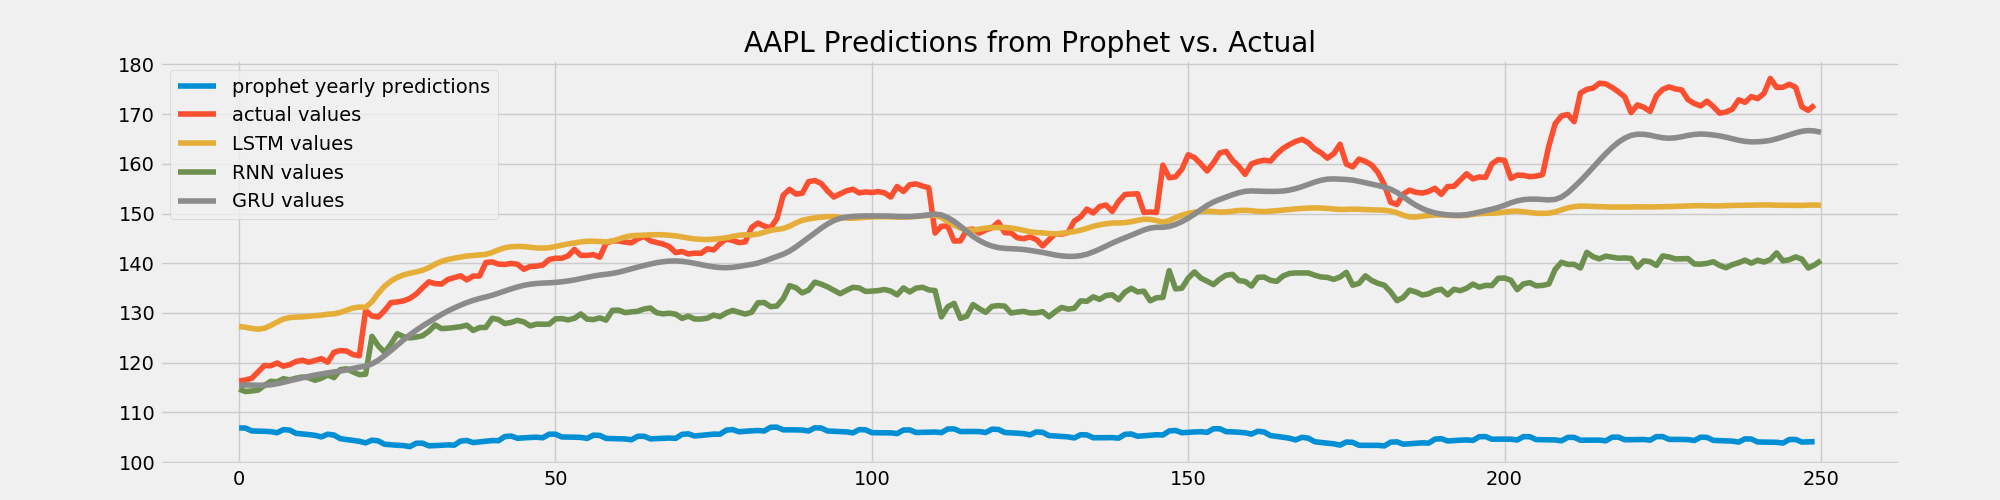
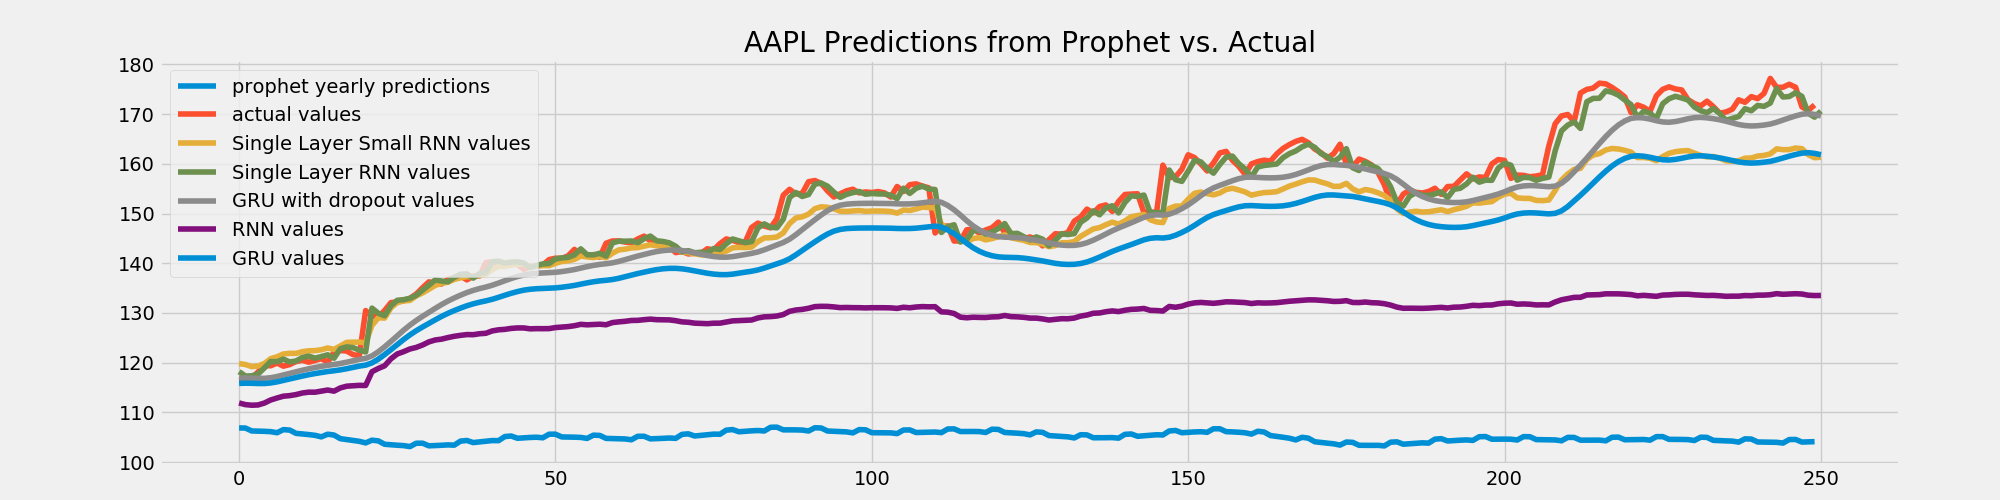
add readme updated figure and updated python script

diff --git a/time-series.py b/time-series.py
@@ -76,8 +76,9 @@ def create_dl_train_test_split(all_data):
     X_train = []
     y_train = []
     for i in range(60,2768):
-     X_train.append(training_set_scaled[i-60:i,0])
-     y_train.append(training_set_scaled[i,0])
+        X_train.append(training_set_scaled[i-60:i,0])
+        y_train.append(training_set_scaled[i,0])
+
     X_train, y_train = np.array(X_train), np.array(y_train)
 
     # Reshaping X_train for efficient modelling
@@ -91,16 +92,60 @@ def create_dl_train_test_split(all_data):
     # Preparing X_test
     X_test = []
     for i in range(60,311):
-     X_test.append(inputs[i-60:i,0])
+        X_test.append(inputs[i-60:i,0])
+
     X_test = np.array(X_test)
     X_test = np.reshape(X_test, (X_test.shape[0],X_test.shape[1],1))
 
     return X_train, y_train, X_test, sc
 
+def create_single_layer_small_rnn_model(X_train, y_train, X_test, sc):
+    '''
+    create single layer rnn model trained on X_train and y_train
+    and make predictions on the X_test data
+    '''
+    # create a model
+    model = Sequential()
+    model.add(SimpleRNN(6))
+    model.add(Dense(1))
+
+    model.compile(optimizer='rmsprop', loss='mean_squared_error')
+
+    # fit the RNN model
+    model.fit(X_train, y_train, epochs=100, batch_size=150)
+
+    # Finalizing predictions
+    scaled_preds = model.predict(X_test)
+    test_preds = sc.inverse_transform(scaled_preds)
+
+    return model, test_preds
+
+def create_single_layer_rnn_model(X_train, y_train, X_test, sc):
+    '''
+    create single layer rnn model trained on X_train and y_train
+    and make predictions on the X_test data
+    '''
+    # create a model
+    model = Sequential()
+    model.add(SimpleRNN(32))
+    model.add(Dense(1))
+
+    model.compile(optimizer='rmsprop', loss='mean_squared_error')
+
+    # fit the RNN model
+    model.fit(X_train, y_train, epochs=100, batch_size=150)
+
+    # Finalizing predictions
+    scaled_preds = model.predict(X_test)
+    test_preds = sc.inverse_transform(scaled_preds)
+
+    return model, test_preds
+
 
 def create_rnn_model(X_train, y_train, X_test, sc):
     '''
-
+    create rnn model trained on X_train and y_train
+    and make predictions on the X_test data
     '''
     # create a model
     model = Sequential()
@@ -121,41 +166,36 @@ def create_rnn_model(X_train, y_train, X_test, sc):
 
     return model, test_preds
 
-def create_LSTM_model(X_train, y_train, X_test, sc):
-    '''
-
-    '''
-    # The LSTM architecture
-    regressor = Sequential()
-    # First LSTM layer with Dropout regularisation
-    regressor.add(LSTM(units=50, return_sequences=True, input_shape=(X_train.shape[1],1)))
-    regressor.add(Dropout(0.2))
-    # Second LSTM layer
-    regressor.add(LSTM(units=50, return_sequences=True))
-    regressor.add(Dropout(0.2))
-    # Third LSTM layer
-    regressor.add(LSTM(units=50, return_sequences=True))
-    regressor.add(Dropout(0.2))
-    # Fourth LSTM layer
-    regressor.add(LSTM(units=50))
-    regressor.add(Dropout(0.2))
-    # The output layer
-    regressor.add(Dense(units=1))
-
-    # Compiling the RNN
-    regressor.compile(optimizer='rmsprop',loss='mean_squared_error')
-    # Fitting to the training set
-    regressor.fit(X_train,y_train,epochs=50,batch_size=32)
-
-    predicted_stock_price = regressor.predict(X_test)
-    predicted_stock_price = sc.inverse_transform(predicted_stock_price)
-
-    return regressor, predicted_stock_price
-
-
 def create_GRU_model(X_train, y_train, X_test, sc):
     '''
+    create GRU model trained on X_train and y_train
+    and make predictions on the X_test data
+    '''
+    # The GRU architecture
+    regressorGRU = Sequential()
+    # First GRU layer with Dropout regularisation
+    regressorGRU.add(GRU(units=50, return_sequences=True, input_shape=(X_train.shape[1],1), activation='tanh'))
+    regressorGRU.add(GRU(units=50, return_sequences=True, activation='tanh'))
+    regressorGRU.add(GRU(units=50, return_sequences=True, activation='tanh'))
+    regressorGRU.add(GRU(units=50, activation='tanh'))
+    regressorGRU.add(Dense(units=1))
 
+    # Compiling the RNN
+    regressorGRU.compile(optimizer=SGD(lr=0.01, decay=1e-7, momentum=0.9, nesterov=False),loss='mean_squared_error')
+    # Fitting to the training set
+    regressorGRU.fit(X_train,y_train,epochs=50,batch_size=150)
+
+    GRU_predicted_stock_price = regressorGRU.predict(X_test)
+    GRU_predicted_stock_price = sc.inverse_transform(GRU_predicted_stock_price)
+
+    return regressorGRU, GRU_predicted_stock_price
+
+
+
+def create_GRU_with_drop_out_model(X_train, y_train, X_test, sc):
+    '''
+    create GRU model trained on X_train and y_train
+    and make predictions on the X_test data
     '''
     # The GRU architecture
     regressorGRU = Sequential()
@@ -163,10 +203,10 @@ def create_GRU_model(X_train, y_train, X_test, sc):
     regressorGRU.add(GRU(units=50, return_sequences=True, input_shape=(X_train.shape[1],1), activation='tanh'))
     regressorGRU.add(Dropout(0.2))
     # Second GRU layer
-    regressorGRU.add(GRU(units=50, return_sequences=True, input_shape=(X_train.shape[1],1), activation='tanh'))
+    regressorGRU.add(GRU(units=50, return_sequences=True, activation='tanh'))
     regressorGRU.add(Dropout(0.2))
     # Third GRU layer
-    regressorGRU.add(GRU(units=50, return_sequences=True, input_shape=(X_train.shape[1],1), activation='tanh'))
+    regressorGRU.add(GRU(units=50, return_sequences=True, activation='tanh'))
     regressorGRU.add(Dropout(0.2))
     # Fourth GRU layer
     regressorGRU.add(GRU(units=50, activation='tanh'))
@@ -188,7 +228,8 @@ def create_prophet_results(all_data,
                            final_train_idx=2768,
                            pred_periods=250):
     '''
-
+    create prophet model trained on first 2768 rows by
+    default and predicts on last 250 rows
     '''
     # Pull train data
     train_data = all_data[:final_train_idx].reset_index()[['Date', 'High']]
@@ -230,8 +271,10 @@ def create_prophet_daily_results(data):
 
 def plot_results(actuals,
                  stock_name,
+                 small_one_layer_preds,
+                 one_layer_preds,
                  yearly_prophet_preds,
-                 lstm_preds,
+                 gru_drop_preds,
                  rnn_preds,
                  gru_preds,
                  plot_pth='./figures'):
@@ -240,7 +283,9 @@ def plot_results(actuals,
     plt.figure(figsize=(20,5))
     plt.plot(yearly_prophet_preds.reset_index()['yhat'].values[-250:], label='prophet yearly predictions');
     plt.plot(stock_data["High"]['2017':].values[:-1], label='actual values');
-    plt.plot(lstm_preds, label='LSTM values');
+    plt.plot(small_one_layer_preds, label='Single Layer Small RNN values');
+    plt.plot(one_layer_preds, label='Single Layer RNN values');
+    plt.plot(gru_drop_preds, label='GRU with dropout values');
     plt.plot(rnn_preds, label='RNN values');
     plt.plot(gru_preds, label='GRU values');
     plt.title('{} Predictions from Prophet vs. Actual'.format(stock_name))
@@ -262,6 +307,12 @@ if __name__ == '__main__':
         # create dl data
         X_train, y_train, X_test, sc = create_dl_train_test_split(stock_data)
 
+        # create small single layer small rnn preds
+        small_single_layer_rnn, small_one_layer_preds = create_single_layer_small_rnn_model(X_train, y_train, X_test, sc)
+
+        # create single layer rnn preds
+        single_layer_rnn, one_layer_preds = create_single_layer_rnn_model(X_train, y_train, X_test, sc)
+
         # rnn daily preds
         rnn_model, rnn_preds = create_rnn_model(X_train, y_train, X_test, sc)
 
@@ -269,7 +320,7 @@ if __name__ == '__main__':
         gru_model, gru_preds = create_GRU_model(X_train, y_train, X_test, sc)
 
         # gru daily preds
-        lstm_model, lstm_preds = create_LSTM_model(X_train, y_train, X_test, sc)
+        gru_drop_model, gru_drop_preds = create_GRU_with_drop_out_model(X_train, y_train, X_test, sc)
 
         # yearly preds
         yearly_preds = create_prophet_results(stock_data)
@@ -280,7 +331,9 @@ if __name__ == '__main__':
         # plot results
         plot_results(stock_data,
                      stock_name,
+                     small_one_layer_preds,
+                     one_layer_preds,
                      yearly_preds,
-                     lstm_preds,
+                     gru_drop_preds,
                      rnn_preds,
                      gru_preds)

diff --git a/README.md b/README.md
@@ -1,0 +1,71 @@
+## Time Series Forecasting
+The associated [medium post for this repository is available here](https://medium.com/@josh_2774/predicting-stock-prices-using-deep-learning-models-310b41cec90a).
+
+Recent advances in deep learning and computing needed to train deep learning models has led to improved abilities for forecasting.  Prior to these new methods, [ARIMA](https://otexts.com/fpp2/arima.html) models were the main methods for making predictions. New models include:
+
+* **RNNs**
+* **LSTMs**
+* **GRUs**
+
+Each of these follow a recurrent structure, which differs from other deep learning methods because they allow previous input values to influence later outputs.
+
+This repository contains information pertaining to the post [linked here](link_post_here), which shows how each of these methods performed in predicting stock prices for the year of 2017.
+
+## Files
+
+Here we will tie together the following files:
+
+* **time-series.py**
+* **data/**
+* **figures/**
+* **figures/results/**
+
+There are a number of files available in this repository. In order to look into how well each of the different methods for forecasting performs, you can run the `time-series.py` script.  
+
+It will run each of these techniques:
+
+* Simple RNN
+* LSTM
+* GRU
+* Prophet (from Facebook)
+
+For each of the of the `.csv` files found in `data\`, the results will be produced in the `figures\` folder.
+
+Prior to producing the results, you will see a plot of the stock price over time split into training and test set like shown here:
+
+![AAPL time series](./figures/AAPL_train_test.png)
+
+Then once all of the predictions have been made, you can see a visual of well each set of predictions compared to the test dataset in the `figures/results` directory.
+
+![AAPL time series](./figures/results/AAPL_preds.png)
+
+
+
+## How to use this repository?
+
+In order to retrieve the predictions, first clone this repository to your local and move into it.
+
+```
+git clone https://github.com/jbernhard-nw/stock-price-forecasting.git
+cd stock-price-forecasting
+```
+
+Then simply run the `time-series.py` script.
+
+```
+$ python time-series.py
+```
+
+This will print notifications for the different models being trained, and then place the results for each stock in the `figures` directory.
+
+The placement in this directory shown with the `AAPL` stock represents how the results will appear when the script has finished.
+
+If you would like to try this with additional stock data.  The data used for this example was pulled from [Kaggle here](https://www.kaggle.com/szrlee/stock-time-series-20050101-to-20171231).
+
+## Given Credit Where Credit is Due
+The data and inspiration for this repository came [from Kaggle](https://www.kaggle.com/szrlee/stock-time-series-20050101-to-20171231).  Additionally, this [notebook by Siddharth Yadav here](https://www.kaggle.com/thebrownviking20/intro-to-recurrent-neural-networks-lstm-gru) was a huge part of the work here.  These two are re-linked below, as well as additional resources that were used to create my medium post and the code for this repository.
+
+- [Siddharth Yadav's notebook](https://www.kaggle.com/thebrownviking20/intro-to-recurrent-neural-networks-lstm-gru)
+- [Kaggle's competition providing the data and inspiration](https://www.kaggle.com/szrlee/stock-time-series-20050101-to-20171231)
+- [Deep Learning with Python](https://tanthiamhuat.files.wordpress.com/2018/03/deeplearningwithpython.pdf)
+- [Corresponding Medium Post](medium post link here)
